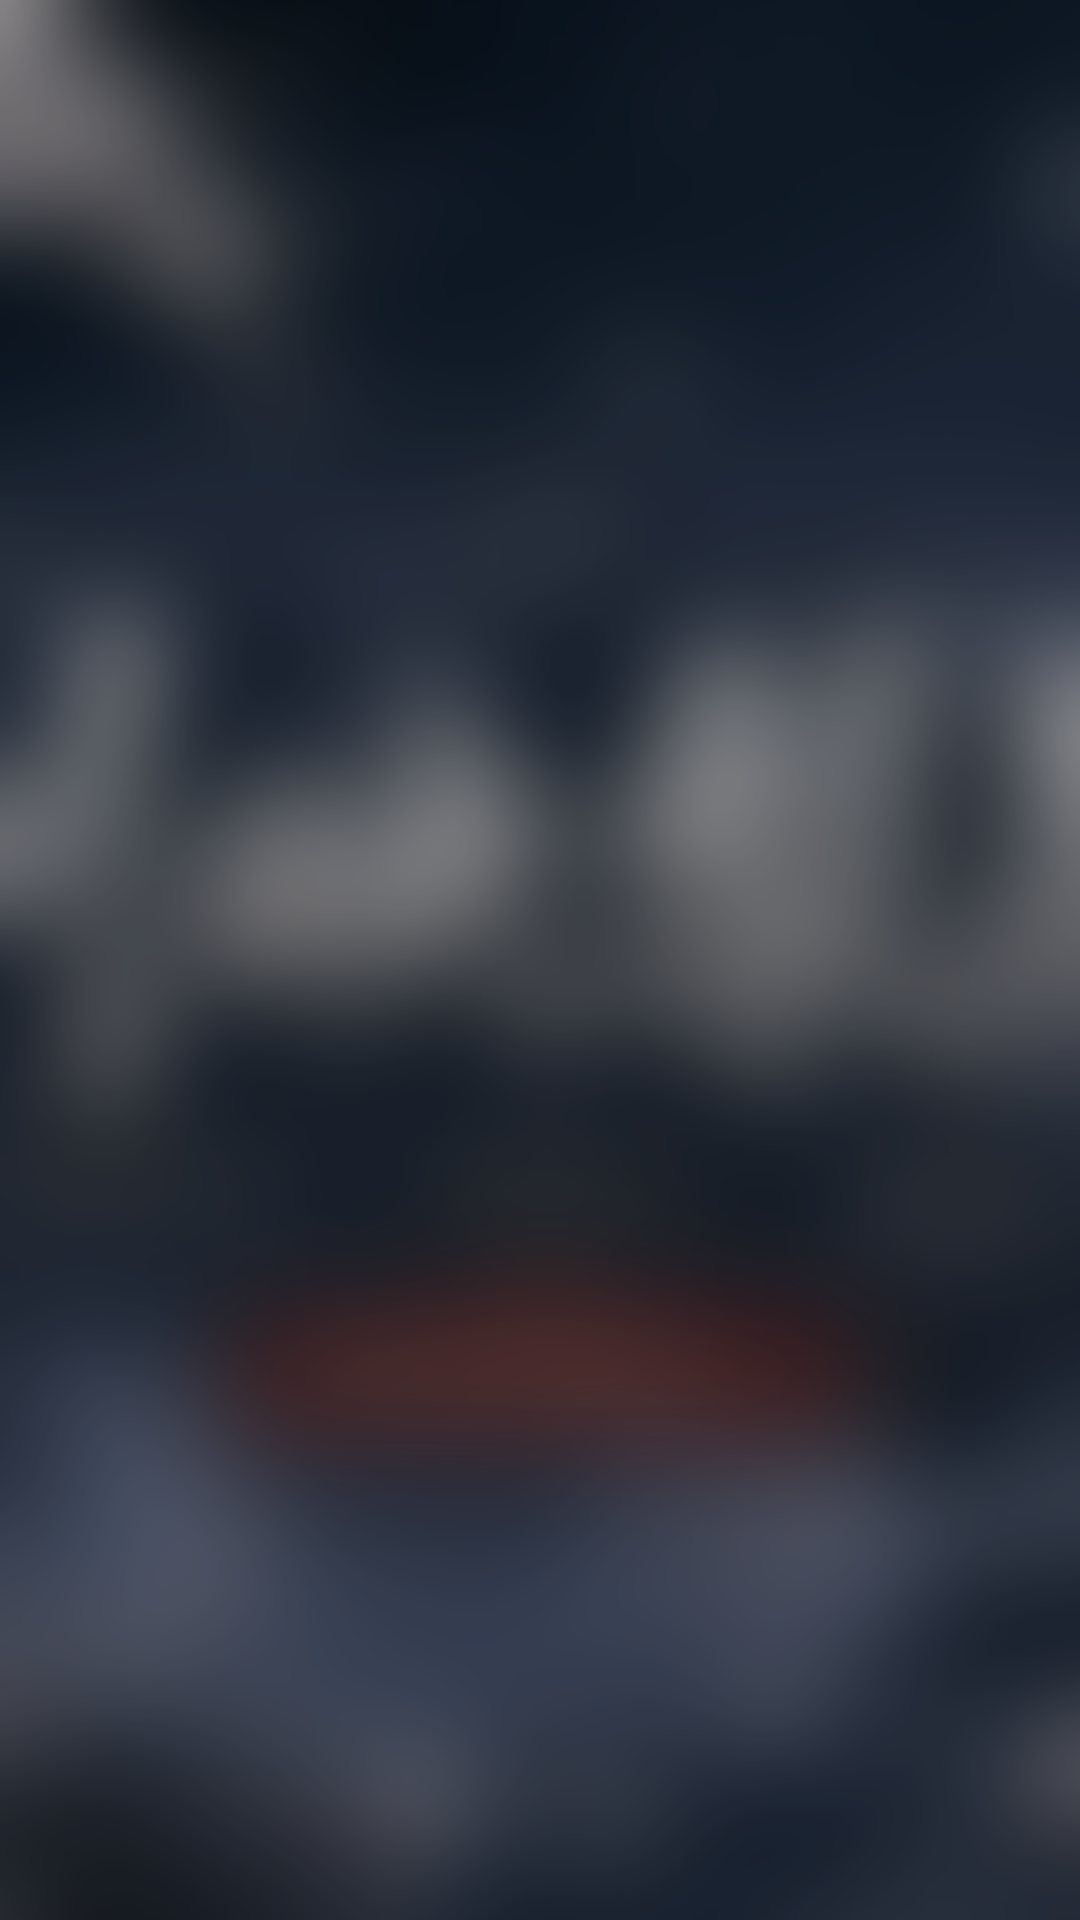
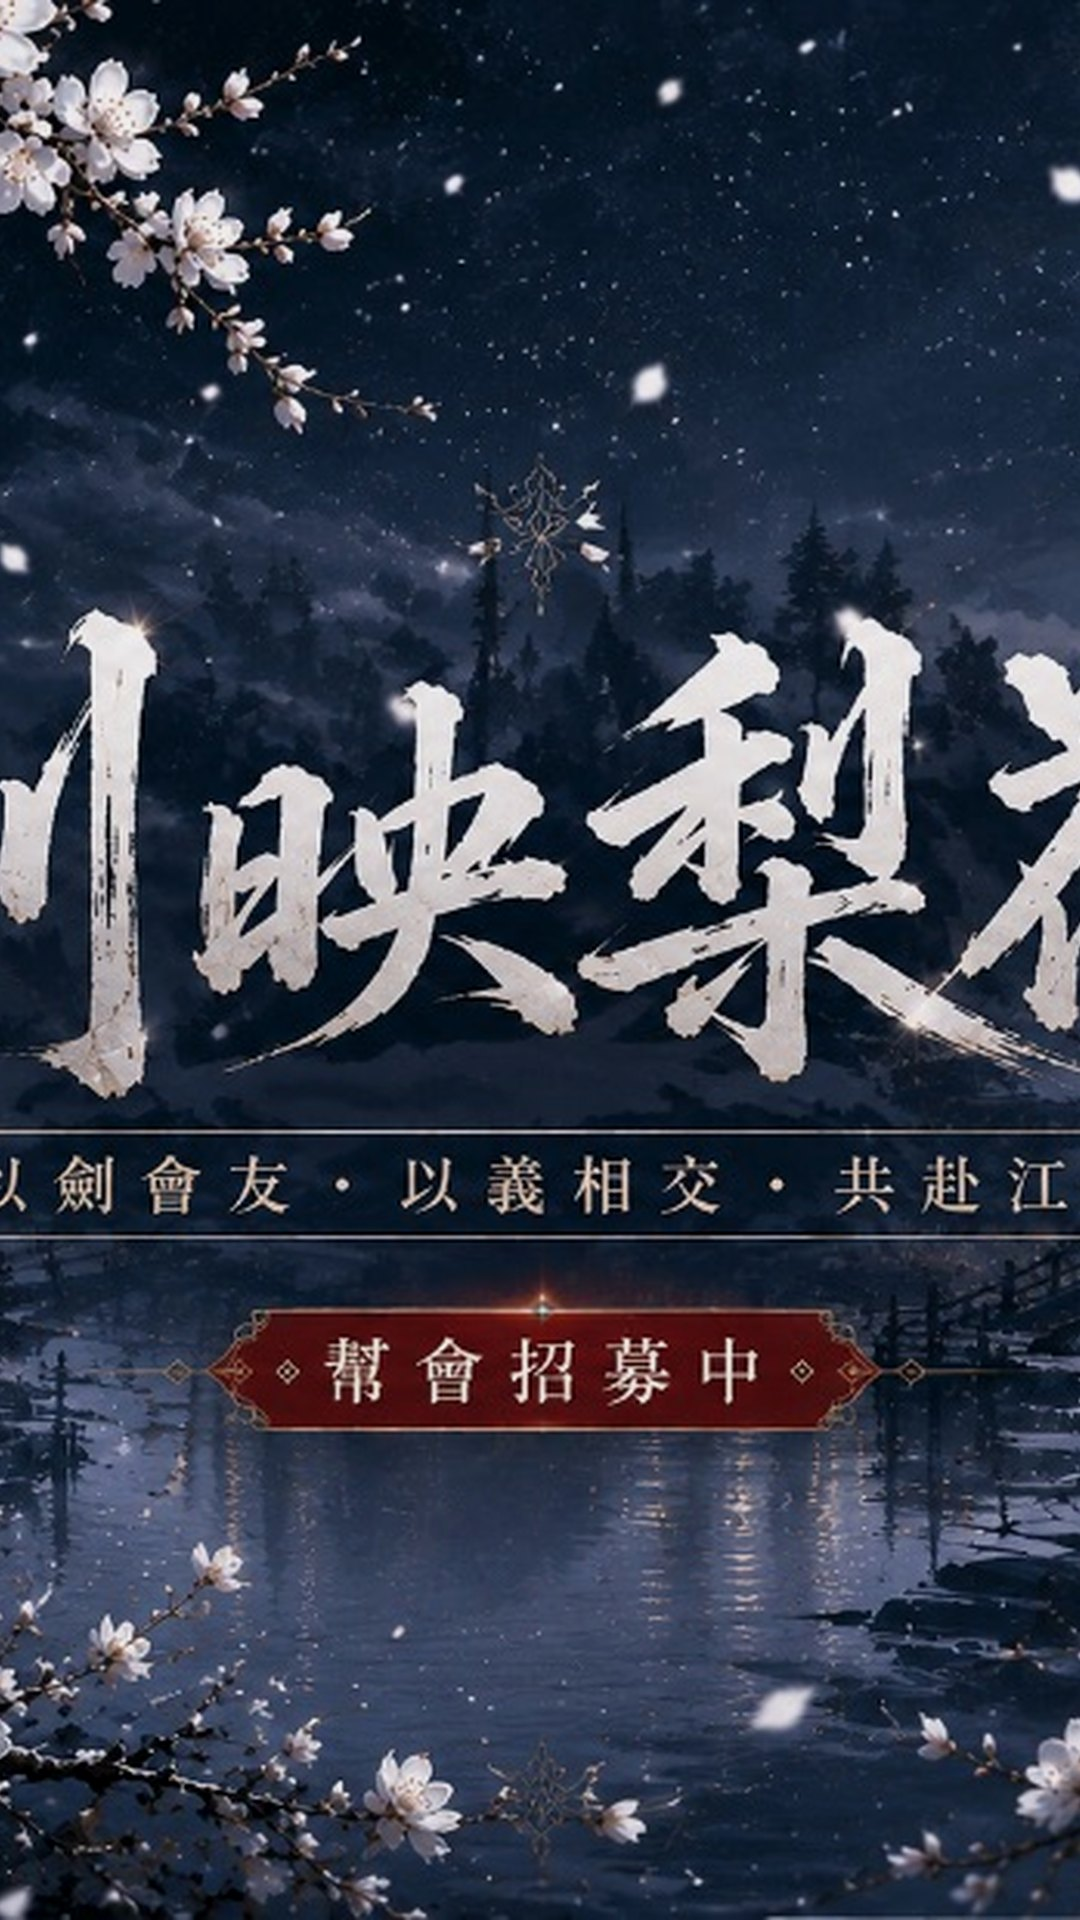
fix: sharper visible background artwork

diff --git a/pv-quiz.html b/pv-quiz.html
@@ -35,11 +35,11 @@ body{
 .bgwrap{position:fixed;inset:0;z-index:0;overflow:hidden;background:#0B0D11;pointer-events:none}
 .bgwrap img{
   width:100%;height:100%;object-fit:cover;object-position:center 28%;
-  filter:blur(2px) brightness(.92) saturate(1);transform:scale(1.06);
+  filter:blur(1px) brightness(1) saturate(1);transform:scale(1.04);
 }
 .bgwrap::after{
   content:'';position:absolute;inset:0;
-  background:linear-gradient(180deg,rgba(11,13,17,.28) 0%,rgba(11,13,17,.55) 42%,rgba(11,13,17,.86) 100%);
+  background:linear-gradient(180deg,rgba(11,13,17,.22) 0%,rgba(11,13,17,.48) 38%,rgba(11,13,17,.84) 100%);
 }
 body::before{
   content:'';position:fixed;inset:0;pointer-events:none;z-index:1;
@@ -618,7 +618,9 @@ document.addEventListener('DOMContentLoaded', () => {
     const qs = buildQuiz(window.NSH_SKILLS || [], 30, 42);
     S = { seed: 42, nick: '蔡小明', questions: qs, idx: 6, answers: [] };
     for (let i = 0; i < 6; i++) S.answers.push({ ok: i % 2 === 0, timeout: false, picked: qs[i].opts[0].name, ans: qs[i].ans.name, icon: qs[i].ans.icon });
-    show('Quiz'); paintTrail(); paintQuestion(); timerRun(3200);
+    Promise.all([...new Set(qs.map(q => q.ans.icon))].map(src => new Promise(r => {
+      const im = new Image(); im.onload = im.onerror = r; im.src = src;
+    }))).then(() => { show('Quiz'); paintTrail(); paintQuestion(); timerRun(3800); });
   }, 150);
 });
 </script>

diff --git a/pv-result.html b/pv-result.html
@@ -35,11 +35,11 @@ body{
 .bgwrap{position:fixed;inset:0;z-index:0;overflow:hidden;background:#0B0D11;pointer-events:none}
 .bgwrap img{
   width:100%;height:100%;object-fit:cover;object-position:center 28%;
-  filter:blur(2px) brightness(.92) saturate(1);transform:scale(1.06);
+  filter:blur(1px) brightness(1) saturate(1);transform:scale(1.04);
 }
 .bgwrap::after{
   content:'';position:absolute;inset:0;
-  background:linear-gradient(180deg,rgba(11,13,17,.28) 0%,rgba(11,13,17,.55) 42%,rgba(11,13,17,.86) 100%);
+  background:linear-gradient(180deg,rgba(11,13,17,.22) 0%,rgba(11,13,17,.48) 38%,rgba(11,13,17,.84) 100%);
 }
 body::before{
   content:'';position:fixed;inset:0;pointer-events:none;z-index:1;
@@ -623,7 +623,9 @@ document.addEventListener('DOMContentLoaded', () => {
         picked: to ? '' : (wrong ? q.opts.find(o => o.name !== q.ans.name).name : q.ans.name),
         ans: q.ans.name, icon: q.ans.icon });
     });
-    enterResult();
+    Promise.all([...new Set(S.answers.map(a => a.icon))].map(src => new Promise(r => {
+      const im = new Image(); im.onload = im.onerror = r; im.src = src;
+    }))).then(() => enterResult());
   }, 150);
 });
 </script>

diff --git a/index.html b/index.html
@@ -35,11 +35,11 @@ body{
 .bgwrap{position:fixed;inset:0;z-index:0;overflow:hidden;background:#0B0D11;pointer-events:none}
 .bgwrap img{
   width:100%;height:100%;object-fit:cover;object-position:center 28%;
-  filter:blur(2px) brightness(.92) saturate(1);transform:scale(1.06);
+  filter:blur(1px) brightness(1) saturate(1);transform:scale(1.04);
 }
 .bgwrap::after{
   content:'';position:absolute;inset:0;
-  background:linear-gradient(180deg,rgba(11,13,17,.28) 0%,rgba(11,13,17,.55) 42%,rgba(11,13,17,.86) 100%);
+  background:linear-gradient(180deg,rgba(11,13,17,.22) 0%,rgba(11,13,17,.48) 38%,rgba(11,13,17,.84) 100%);
 }
 body::before{
   content:'';position:fixed;inset:0;pointer-events:none;z-index:1;
